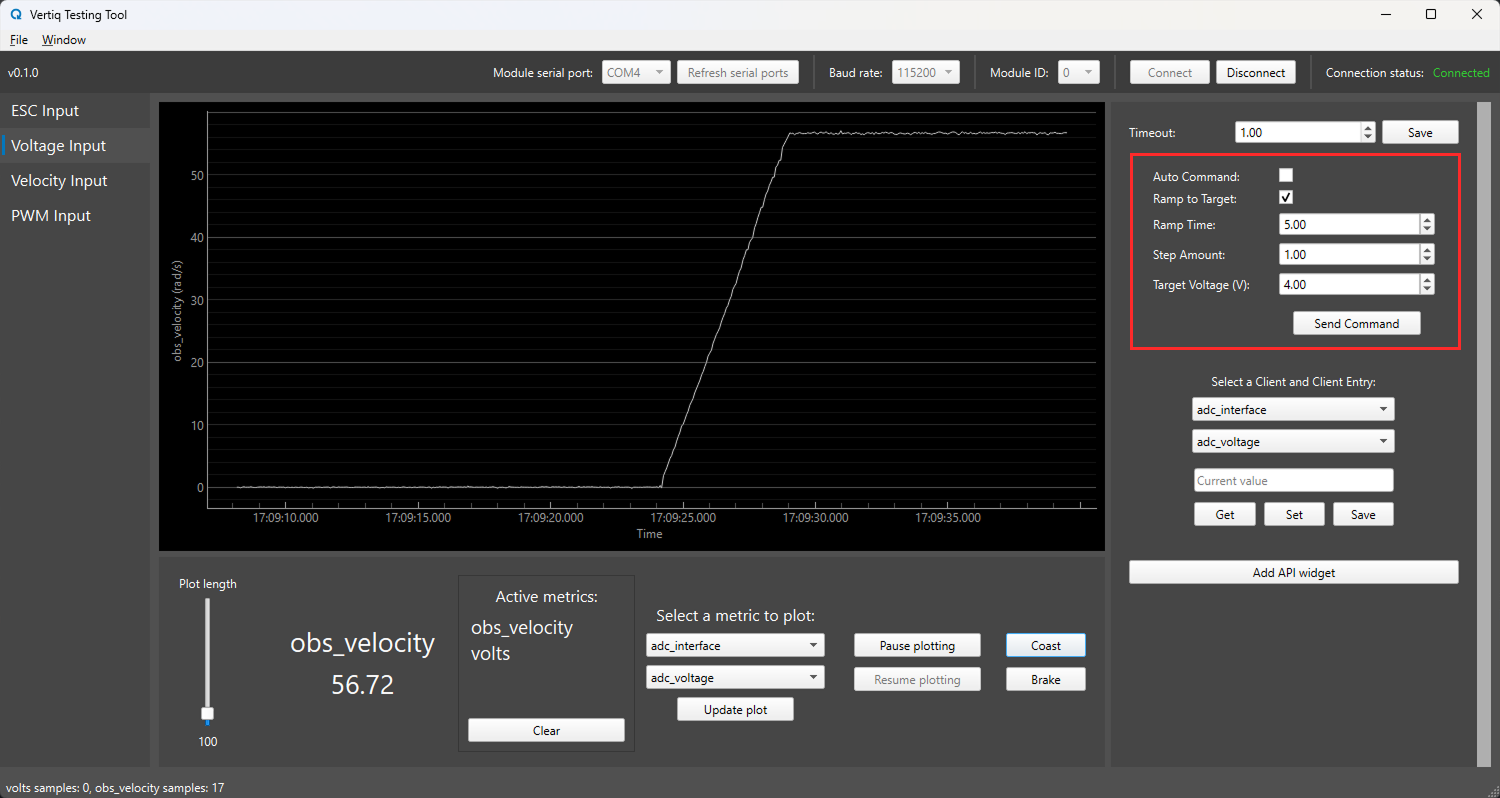
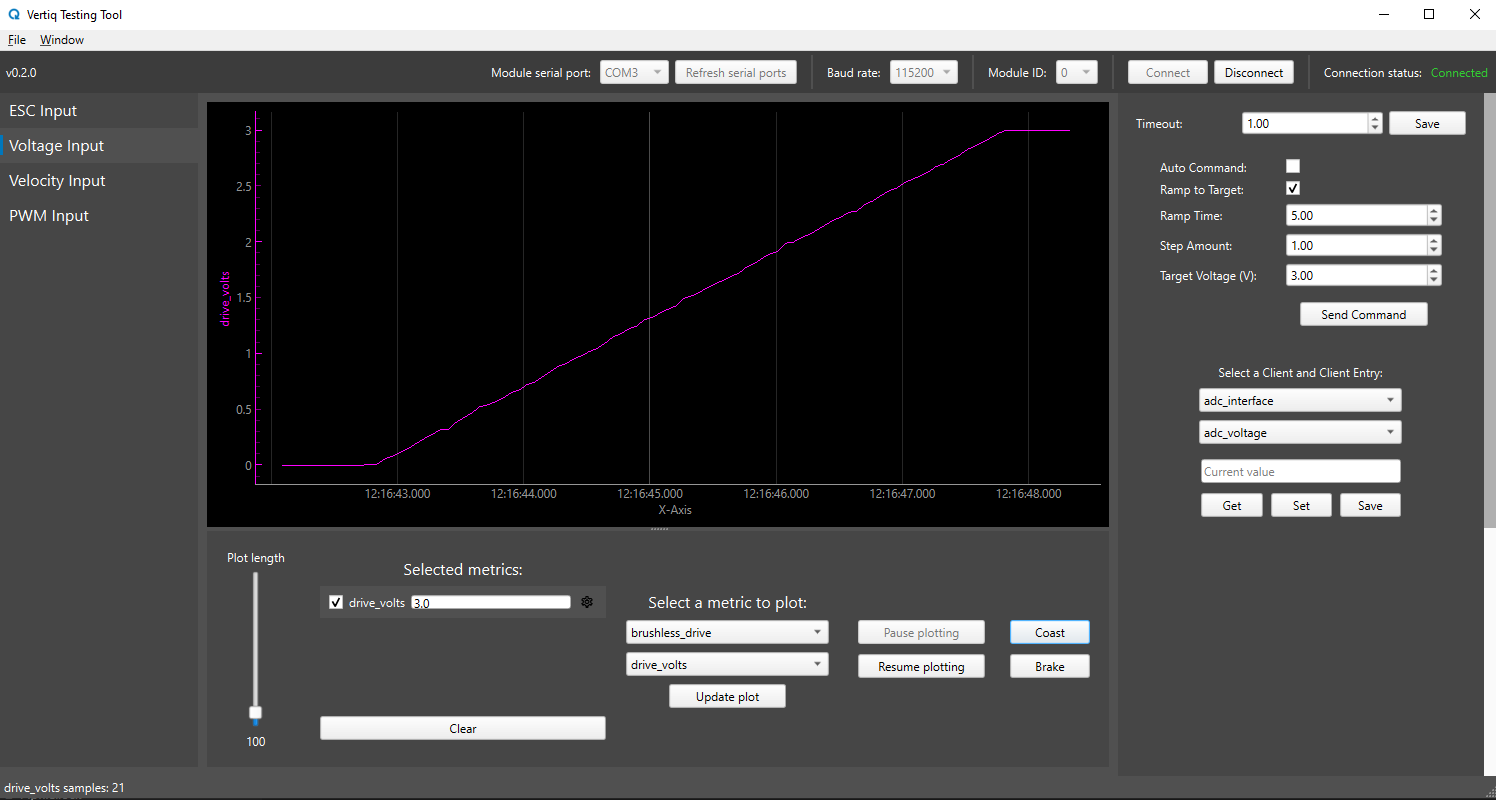
Update pictures and tweak content for v0.2.0

diff --git a/docs/vertiq_testing_tool/vertiq_testing_tool_start_guide.rst b/docs/vertiq_testing_tool/vertiq_testing_tool_start_guide.rst
@@ -95,47 +95,66 @@ as these are the supported metrics that can be plotted. Also, please make sure t
 .. warning::
     Please remove all propellers from any module you plan on testing. Failure to do so can result in harm to you or others around you. Further, please ensure that your module is secured to a stationary platform or surface before attempting to spin it. 
 
-For example, let's command the module to a 3V drive voltage using the Control Panel in the Voltage Input tab and plot the value of *drive_volts* from the Brushless Drive client.
+For example, let's walk-through the process of commanding the module to a 3V drive voltage using the Control Panel in the Voltage Input tab and plotting the value of *drive_volts* from the Brushless Drive client.
 
 .. note::
     Please refer to the :ref:`Velocity and Voltage Based Control Mechanisms <manual_velocity_control_mechanisms>` documentation to learn more about Velocity and Voltage Control.
-
-
-Set the 'Target Voltage' to 3.00 and click 'Send Command'. The module will ramp up to 3 volts over the next 5 seconds specified by the 'Ramp Time' value.
-After 5 seconds, the module should now have a constant, 3V, drive voltage. We can confirm this by plotting the drive volts.
-
-.. image:: ../_static/vertiq_testing_tool_pictures/voltage_input_command_example.png
 
 In order to visualize the module's drive voltage, navigate to the widget labeled 'Select a metric to plot'. The upper dropdown menu allows you to pick a client, and the lower a client entry.
 Please refer to :ref:`Getting Started with Vertiq's APIs <getting_started_with_apis>` to learn more about IQUART clients.
 
 In the upper dropdown menu, select *brushless_drive*. This corresponds to the :ref:`Brushless Drive <brushless_drive>` client.
-In the lower dropdown menu, select *drive_volts*, which corresponds with brushless drive's *drive_volts* entry.
-Now, click 'Update Plot'. 
+In the lower dropdown menu, select *drive_volts*, which corresponds with brushless drive's *drive_volts* entry.Now, click 'Update Plot'. 
 
-Notice that the *drive_volts* metric is added to the 'Active metrics' widget. By default, *obs_velocity*, *watts*, and *amps* are preloaded in the 'Active metrics' widget.
-Selecting a metric activates it, and updates the live plot with the now active metric. Only one metric can be active at a time, but there is no limit to the number of metrics that can be added to the 'Active metrics' widget.
+Notice that the *drive_volts* metric is added to the 'Selected metrics' widget. By default, *volts* from the :ref:`Power Monitor <power_monitor>` client is preloaded in the 'Active metrics' widget.
+Selecting a metric activates it, and updates the live plot with the now active metric. Multiple metrics can be plotted at once, so when *drive_volts* is added both *volts* and *drive_volts* will be plotted.
+At this point, *drive_volts* should be 0V, as no drive voltage has been commanded to the motor yet.
 
-.. image:: ../_static/vertiq_testing_tool_pictures/active_metrics_widget_example.png
+.. image:: ../_static/vertiq_testing_tool_pictures/added_volts_metric_example.png
 
-To remove a metric from the 'Active metrics' widget, simply right click on it and select 'Remove'.
+To plot only the *drive_volts* metric, uncheck the *volts* metric. This will hide that metric on the plot, so only the *drive_volts* metric will be visible.
 
-.. image:: ../_static/vertiq_testing_tool_pictures/remove_metric_example.png
+.. image:: ../_static/vertiq_testing_tool_pictures/hide_volts_example.png
 
+Note that the position of the y-axes is determined by the order of the metrics in the metrics list. Because *volts* is the first metric in the list its y-axis will be on the left
+and all other metrics will have their y-axes on the right, even when the first metric is hidden. To remove a metric from the metrics list, right click on it and select 'Remove'.
+If *volts* is removed, *drive_volts* will be the first metric in the list and will move its y-axis to the left, as can be seen below.
+
+.. image:: ../_static/vertiq_testing_tool_pictures/removed_volts_metric_example.png
+
+Now that the plot is set up to plot only *drive_volts*, we can see how the value changes as we command the module. Select the Voltage Input tab on the left-hand side of the tool.
+Set the 'Target Voltage' to 3.00 and click 'Send Command'. The module will ramp up to 3 volts over the next 5 seconds specified by the 'Ramp Time' value.
+After 5 seconds, the module should now have a constant, 3V, drive voltage. The plot of *drive_volts* shows this ramp and final setpoint, as shown below.
+
+.. image:: ../_static/vertiq_testing_tool_pictures/voltage_input_command_example.png
+
+==============================
+Customizing Plotted Metrics
+==============================
+In versions v0.2.0 and above, it is possible to further customize the plotting of metrics. Specifically, the color of the line, the label used on the y-axis, and the visibility of the y-axis can be configured.
+To change these properties of the metric, select the gear icon next to the metric in the 'Selected metrics' list. This will bring up a small dialog box with options for customizing the metric.
+The images below show the gear icon and metric customization dialog.
+
+.. image:: ../_static/vertiq_testing_tool_pictures/metric_gear.png
+
+.. image:: ../_static/vertiq_testing_tool_pictures/metric_config_dialog.png
+
+On the metric customization dialog, "Show y-axis" controls whether the y-axis for this metric is visible. The color palette allows you to select what color the axis and line should be.
+The label allows you to customize the label on the y-axis for this metric. The picture below shows an example of using this dialog to change both the color and label of a metric.
+
+.. image:: ../_static/vertiq_testing_tool_pictures/customizing_metric.png
 
 ============
 Plot Windows
 ============
-In versions v0.1.0 and above, there is a new feature that allows you to create multiple plot windows. To use this feature, navigate to Windows \> New plot window in the menu bar: 
+In versions v0.1.0 and above, there is a feature that allows you to create multiple plot windows. To use this feature, navigate to Windows \> New plot window in the menu bar: 
 
 .. image:: ../_static/vertiq_testing_tool_pictures/new_plot_window.png
 
-You can create multiple plot windows to plot different metrics:
+You can create multiple plot windows to plot different metrics, and each of these plot windows has the same ability to plot and customize multiple metrics as previously described.
+The image below shows an example of two additional plot windows with multiple active metrics.
 
 .. image:: ../_static/vertiq_testing_tool_pictures/multiple_plot_windows.png
-
-The new plot windows are highlighted above in the blue and green boxes.
-
 
 ===============================
 Auto Command and Ramp to Target
